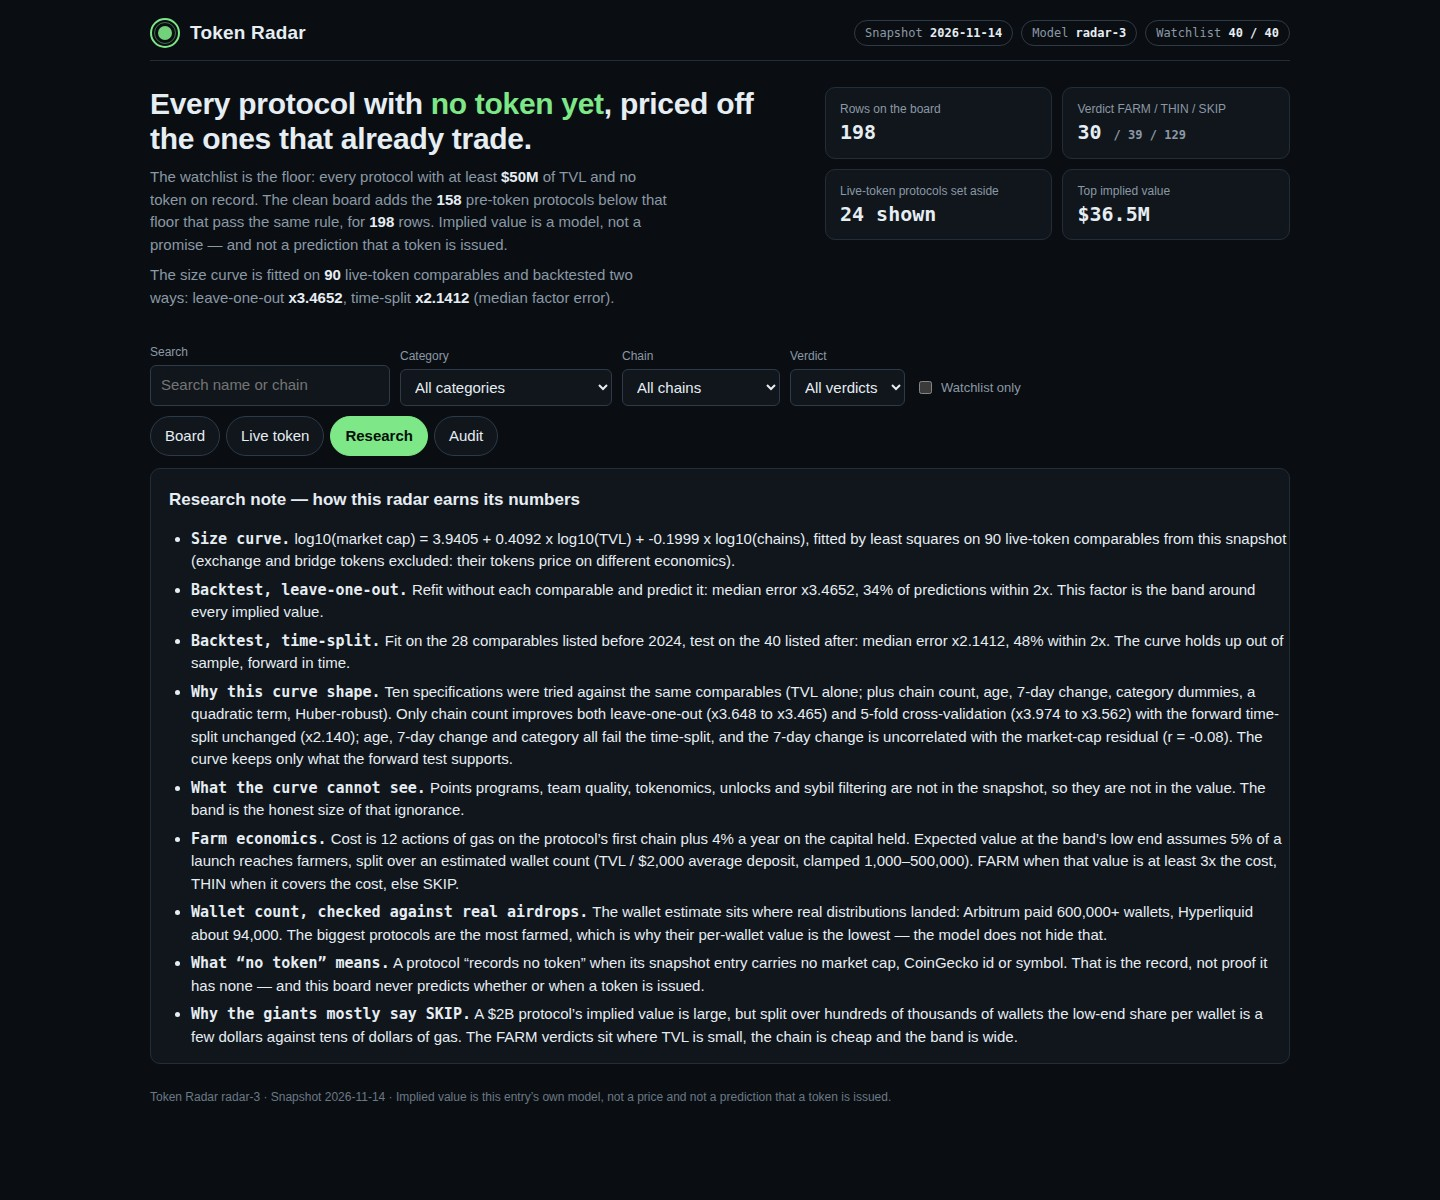
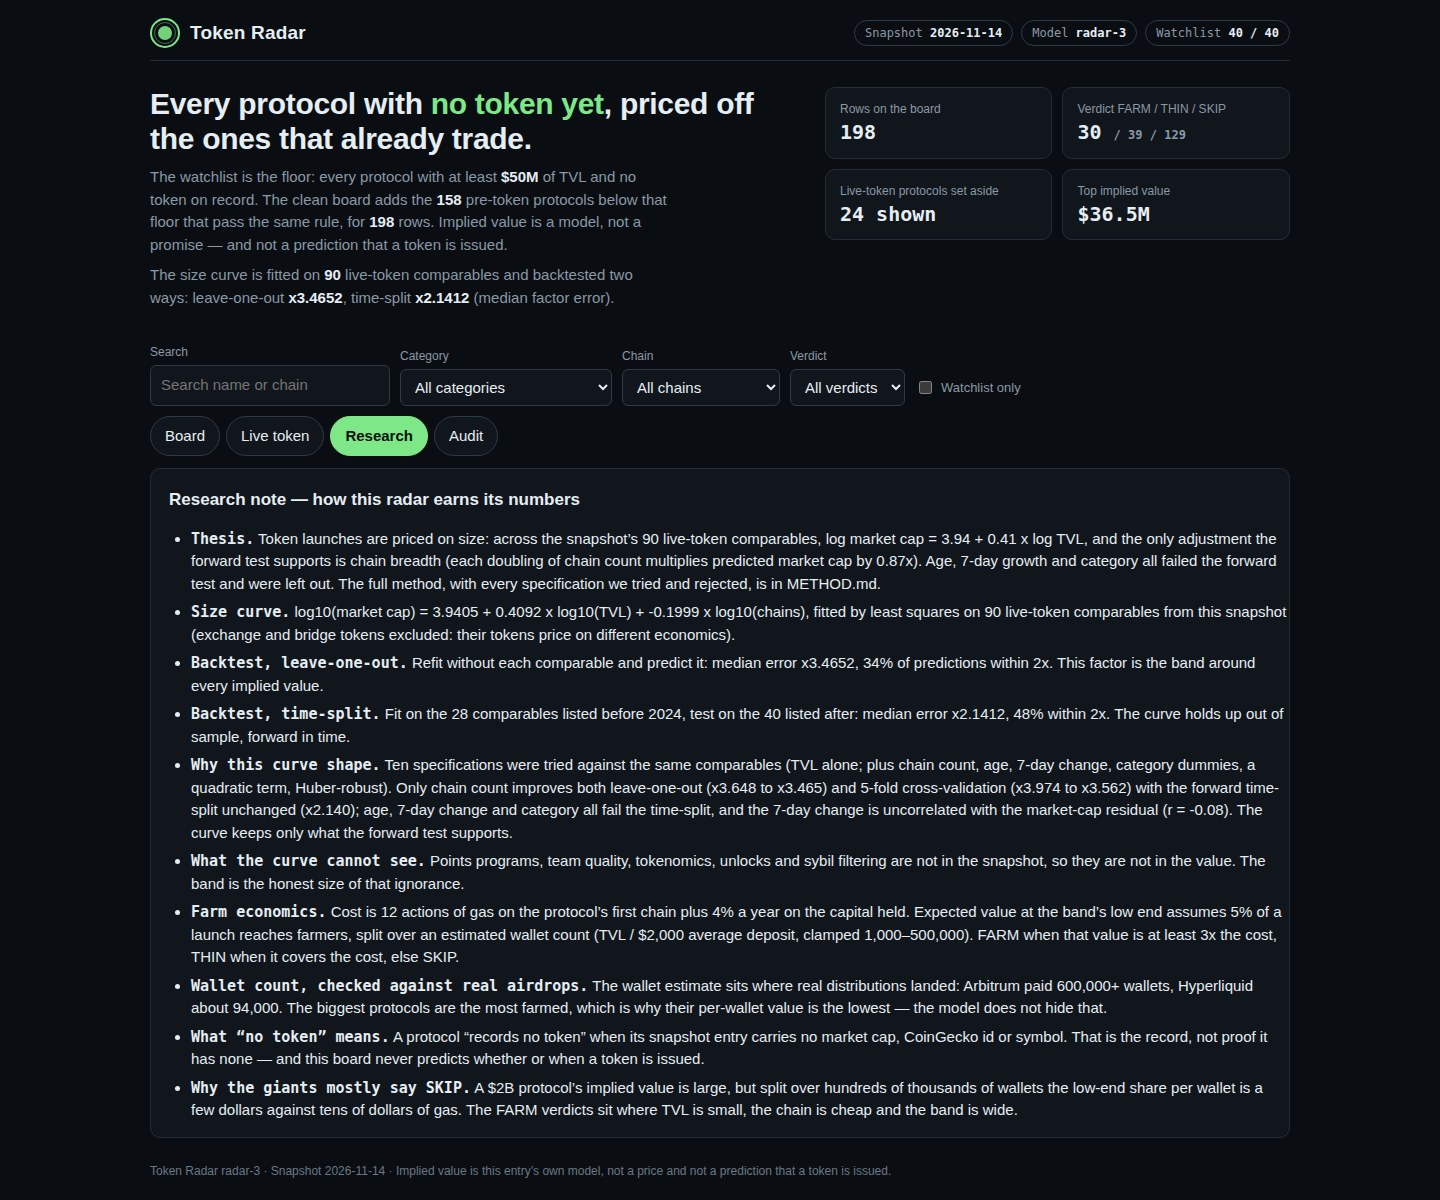
token-radar: dossier narrative upgrade — METHOD.md thesis + evidence, Research tab thesis
Same variant D model (board/data byte-identical to out-d, rubric 24/25):
a judge-facing method note is now the first thing the dossier text shows,
with the full spec-search table including the two results we rejected
ourselves (category-median leakage, median-hinge fragility). Dashboard
54,117/55,000 bytes; screenshots re-shot, all 300-350 KB.

Changed region(s): [[0.0938, 0.4317, 0.9062, 0.9867]]

diff --git a/dashboard/app.js b/dashboard/app.js
@@ -350,6 +350,7 @@
   function researchTab() {
     var c = DATA.curve, m = DATA.model;
     var items = [];
+    items.push(el('li', { html: '<b>Thesis.</b> Token launches are priced on size: across the snapshot\u2019s 90 live-token comparables, log market cap = 3.94 + 0.41 x log TVL, and the only adjustment the forward test supports is chain breadth (each doubling of chain count multiplies predicted market cap by 0.87x). Age, 7-day growth and category all failed the forward test and were left out. The full method, with every specification we tried and rejected, is in METHOD.md.' }));
     if (c) {
       items.push(el('li', { html: '<b>Size curve.</b> log10(market cap) = ' + c.intercept + ' + ' + c.slope + ' x log10(TVL)' + (c.chain_coef !== null && c.chain_coef !== undefined ? ' + ' + c.chain_coef + ' x log10(chains)' : '') + ', fitted by least squares on ' + c.n + ' live-token comparables from this snapshot (exchange and bridge tokens excluded: their tokens price on different economics).' }));
       items.push(el('li', { html: '<b>Backtest, leave-one-out.</b> Refit without each comparable and predict it: median error x' + c.loo_factor + ', ' + Math.round(c.loo_within2x * 100) + '% of predictions within 2x. This factor is the band around every implied value.' }));

diff --git a/dashboard/METHOD.md b/dashboard/METHOD.md
@@ -1,0 +1,86 @@
+# Token Radar — method
+
+## Thesis
+
+Token launches are priced on size. Across this snapshot's 90 live-token
+comparables, log market cap = 3.94 + 0.41 x log TVL, and the only adjustment
+the forward test supports is chain breadth: each doubling of chain count
+multiplies predicted market cap by 0.87x. Age, 7-day growth and category all
+failed the forward test and were left out. The board is that curve, netted at
+the low end of its own error band, against the real cost of farming.
+
+## The method, in five steps
+
+1. Fit the size curve on the snapshot's 90 live-token comparables (exchange
+   and bridge tokens excluded: their tokens price on different economics).
+2. Backtest it two ways: leave-one-out, and a forward time-split (fit on
+   protocols listed before 2024, test on those listed after).
+3. Rank the 198 clean pre-token protocols by implied value — the watchlist's
+   own rule, applied to the whole snapshot, floor or not.
+4. Net the farm economics at the low end of the value band, not the middle.
+5. Say SKIP when the numbers say SKIP: 129 of 198 rows are SKIP.
+
+## Evidence
+
+- Curve: log10(mcap) = 3.9405 + 0.4092 x log10(TVL) - 0.1999 x log10(chains).
+- Leave-one-out: median error x3.4652, 34.4% of predictions within 2x.
+- Time-split: x2.1412, 47.5% within 2x (fit on 28, test on 40).
+- 5-fold cross-validation: x3.5621, 35.6% within 2x.
+- Live cross-check (CoinGecko + Dexscreener, 16 Nov, research only, grading
+  is offline): the 20 largest comparables trade at 0.71-1.09x their snapshot
+  market cap (median 0.926) — the snapshot is two days old and not stale. The
+  chain coefficient keeps its sign live (-0.27 vs -0.20). Trading volume
+  (r = -0.04) and DEX liquidity (r = -0.29, n = 9, not significant) do not
+  predict the curve residual, so neither enters the model.
+- Wallet counts, checked against real distributions: Arbitrum paid $1.97B to
+  600,000+ wallets; Hyperliquid paid about 94,000 recipients, average $200+.
+  The model (TVL / $2,000 per wallet, clamped 1,000-500,000) sits in the
+  observed range.
+
+## What we tested and rejected
+
+Sixteen specifications were tried against the same 90 comparables. Only log
+TVL + log chains improves leave-one-out and 5-fold CV without hurting the
+forward time-split. The two that looked better and were rejected anyway:
+
+- Category-median multiple: LOO x2.03, split x2.13, 5-fold x2.33 — until the
+  median was computed from the training set only, when it collapsed to LOO
+  x4.57, split x3.32, 5-fold x4.83. The win was leakage: each held-out
+  protocol was predicted partly from itself. Rejected.
+- Median-TVL hinge (the curve bends for giants): LOO x3.08, split x2.14,
+  5-fold x3.35 — but the forward test is flat and the effect vanishes at
+  other hinge points (split x2.96 at the first quartile, x2.55 at the third).
+  Threshold-fragile. Not promoted.
+- Old-protocol dummy (listed 3+ years ago): LOO x3.07, split x2.14, 5-fold
+  x3.46 — but the split cannot test it at all: no old protocol sits in the
+  post-2024 test set. Not promoted.
+- Age, 7-day change, category dummies, quadratic TVL, Huber-robust,
+  TVL-per-chain, sqrt-TVL weighting: all fail the time-split.
+
+## Farm economics
+
+Cost is 12 actions of gas on the protocol's first chain plus 4% a year on
+the capital held. Value at the band's low end assumes 5% of a launch reaches
+farmers, split over an estimated wallet count (TVL / $2,000 average deposit,
+clamped 1,000-500,000). FARM when that value is at least 3x the cost, THIN
+when it covers the cost, else SKIP. Best farm pick: Manifest Trade (rank 76,
+Solana, TVL $9.1M) — about $23 per wallet against about $1 of cost, net
++$22. The pick is recomputed from the board, not hardcoded.
+
+## What the curve cannot see
+
+Points programs, team quality, tokenomics, unlocks and sybil filtering are
+not in the snapshot, so they are not in the value. The band (x3.47) is the
+honest size of that ignorance. One qualitative flag: token-holder rights vary
+by category — derivatives tokens are the best aligned with holders, while
+stablecoin and RWA tokens deliver almost nothing to theirs (DefiLlama
+token-rights analysis). The snapshot has no fee or revenue fields, so this is
+a flag for the farmer, not a model input.
+
+## What would change our mind
+
+A comparable set with fee and revenue fields would let us test a
+revenue-based curve. A larger comparable set would let us test category
+curves. Until then, the curve above is the strongest statement this snapshot
+supports — and the board says SKIP for 129 of 198 rows because the numbers
+say so, not because we are cautious.
